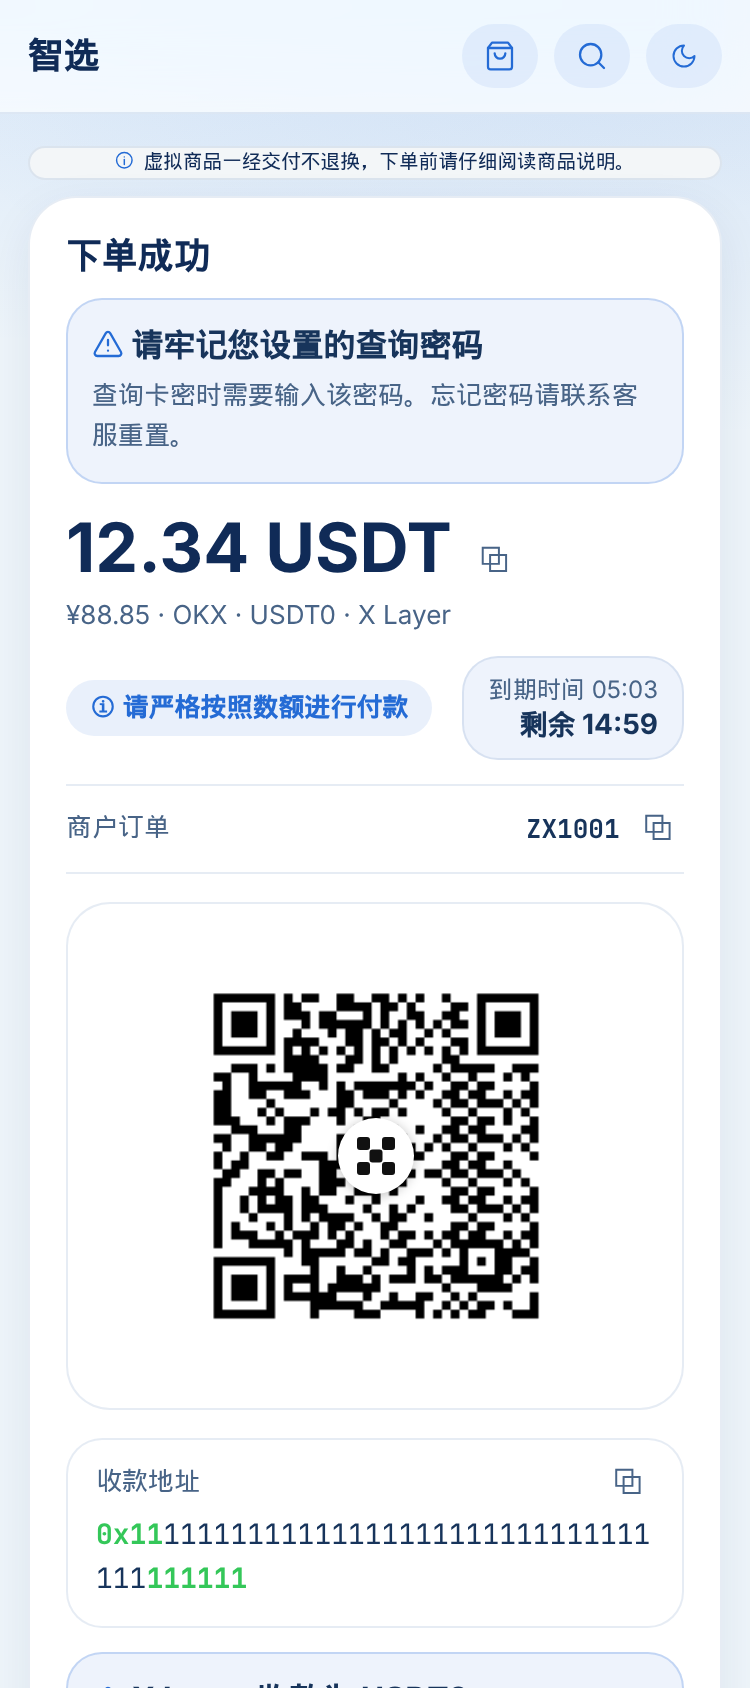
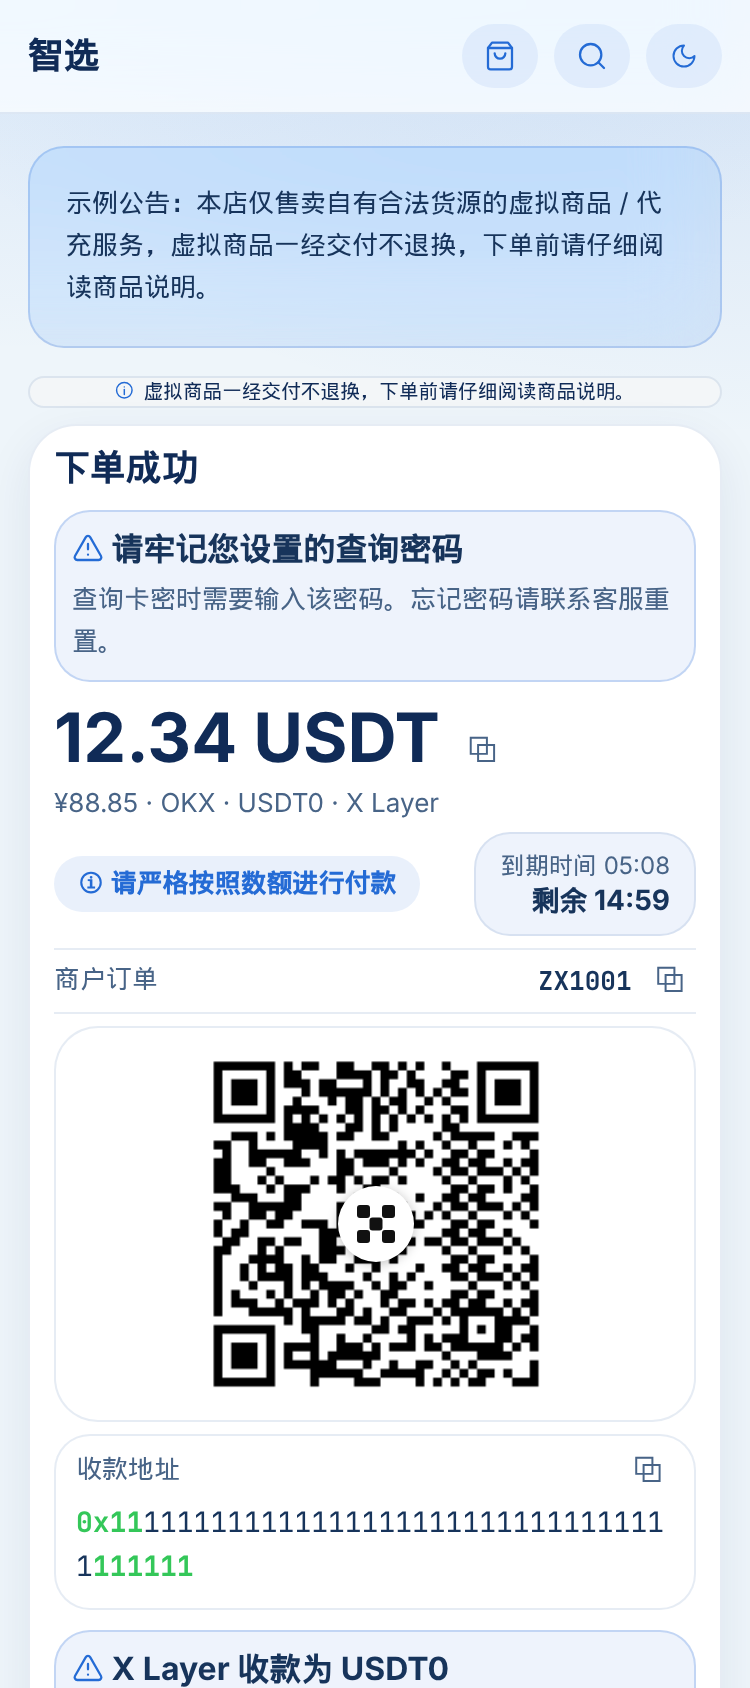
Tighten the mobile pay block so the address stays on the first 390px screen.
The announcement sits above the notice, so the amount, countdown, QR, and address need the tighter spacing to remain visible together.

Changed region(s): [[0.0307, 0.0616, 0.9813, 0.8318], [0.0613, 0.4005, 0.92, 1.0]]

diff --git a/src/frontend.html b/src/frontend.html
@@ -379,6 +379,19 @@ html:not([data-theme="dark"]) .detail-img,html:not([data-theme="dark"]) .buy-box
 .pay-deadline-expired .pay-deadline-left{color:var(--red)}
 .pay-qr-box{padding:22px;border-radius:22px;background:#fff;border-color:var(--line)}
 .pay-addrbox{border:1px solid var(--line);border-radius:18px;background:var(--card2)}
+/* 窄屏付款页：公告 + 提示条之下，金额、倒计时、二维码、地址仍要落在 390×844 首屏里。桌面间距不动。 */
+@media(max-width:640px){
+  .pay-shell.glass{padding:10px 12px}
+  .pay-shell .h2{margin:0 0 6px}
+  .pay-shell .warn-box{margin:6px 0;padding:8px}
+  .pay-amount{margin:6px 0 2px}
+  .pay-toprow{margin:6px 0}
+  .pay-div{margin:6px 0}
+  .pay-row{margin:4px 0}
+  .pay-qr-box{padding:8px;margin:6px 0}
+  .pay-qr{margin:0}
+  .pay-addrbox{margin:6px 0;padding:8px 10px}
+}
 .pay-card{border:1px solid var(--line);border-radius:18px}
 .btn:not(.ghost):not(.danger):not(.green):hover{background:var(--zx-accent-strong)}
 .btn.ghost:hover{background:rgba(36,107,213,.10)}
